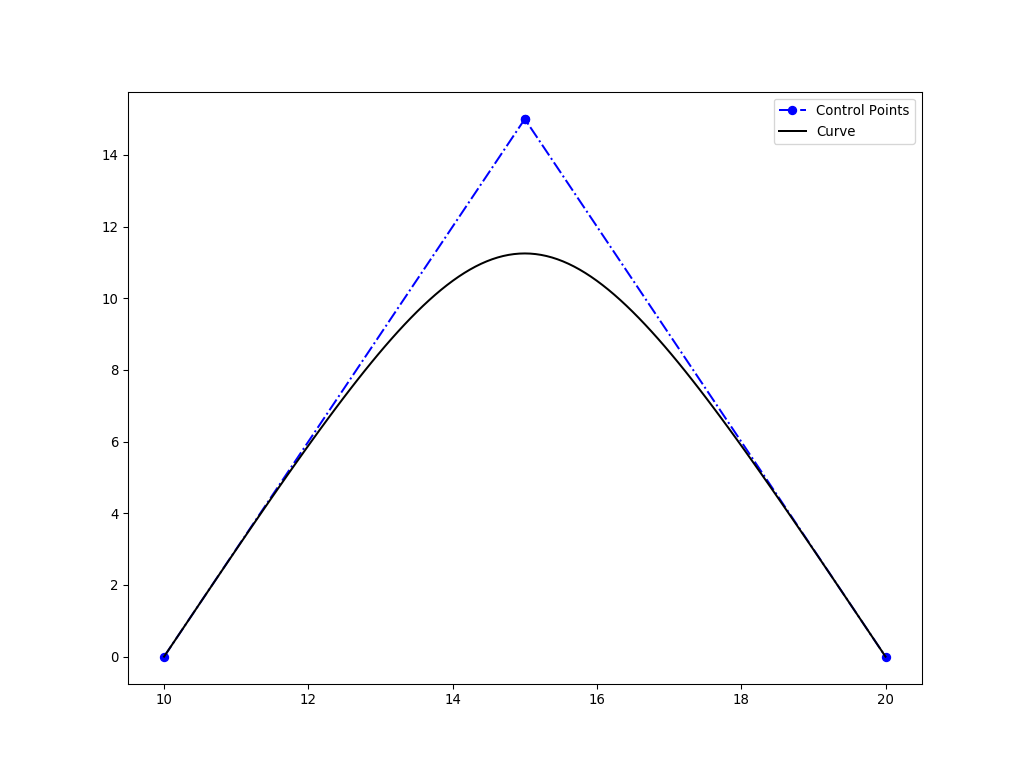
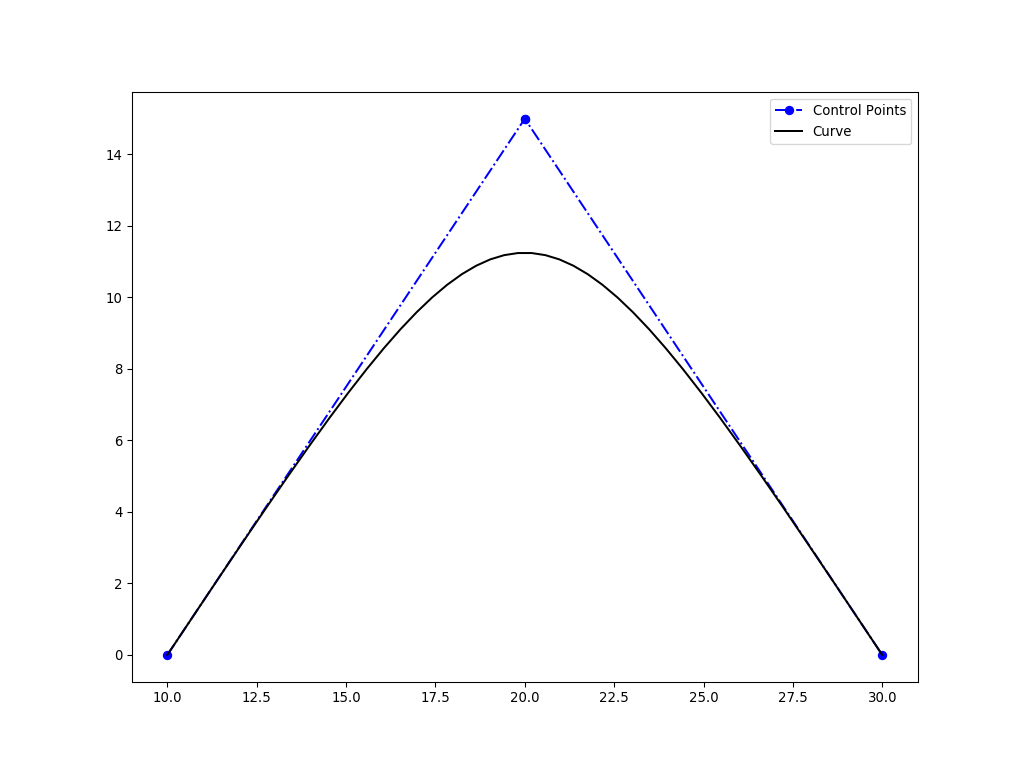
Update Bezier curves and surface patches

diff --git a/bezier/ex_bezier_surface.py b/bezier/ex_bezier_surface.py
@@ -26,10 +26,10 @@ surf = BSpline.Surface()
 # Set up the Bezier surface
 surf.degree_u = 3
 surf.degree_v = 2
-control_points = [[0, 0, 0], [0, 1, 0], [0, 2, -3],
-                  [1, 0, 6], [1, 1, 0], [1, 2, 0],
-                  [2, 0, 0], [2, 1, 0], [2, 2, 3],
-                  [3, 0, 0], [3, 1, -3], [3, 2, 0]]
+control_points = [[0, 0, 0], [0, 4, 0], [0, 8, -3],
+                  [2, 0, 6], [2, 4, 0], [2, 8, 0],
+                  [4, 0, 0], [4, 4, 0], [4, 8, 3],
+                  [6, 0, 0], [6, 4, -3], [6, 8, 0]]
 surf.set_ctrlpts(control_points, 4, 3)
 surf.knotvector_u = utilities.generate_knot_vector(surf.degree_u, 4)
 surf.knotvector_v = utilities.generate_knot_vector(surf.degree_v, 3)

diff --git a/bezier/ex_bezier_curve2d.py b/bezier/ex_bezier_curve2d.py
@@ -28,7 +28,7 @@ os.chdir(os.path.dirname(os.path.realpath(__file__)))
 curve1 = BSpline.Curve()
 
 # Set up the Bezier curve
-curve1.ctrlpts = [[10, 0], [15, 15], [20, 0]]
+curve1.ctrlpts = [[10, 0], [20, 15], [30, 0]]
 curve1.degree = 2
 
 # Auto-generate knot vector
@@ -54,7 +54,7 @@ if render_curve:
 curve2 = BSpline.Curve()
 
 # Set up the Bezier curve
-curve2.ctrlpts = [[10, 0], [15, 15], [15, 15], [20, 0]]
+curve2.ctrlpts = [[10, 0], [20, 15], [20, 15], [30, 0]]
 curve2.degree = 3
 
 # Auto-generate knot vector

diff --git a/bezier/ex_bezier_curve3d.py b/bezier/ex_bezier_curve3d.py
@@ -24,7 +24,7 @@ os.chdir(os.path.dirname(os.path.realpath(__file__)))
 curve = BSpline.Curve()
 
 # Set up the Bezier curve
-curve.ctrlpts = [[15, 5, 20], [7.5, 7.5, -25], [22.5, 7.5, 25], [14, 5, 0]]
+curve.ctrlpts = [[10, 5, 10], [10, 20, -30], [40, 10, 25], [-10, 5, 0]]
 curve.degree = 3
 
 # Auto-generate knot vector
